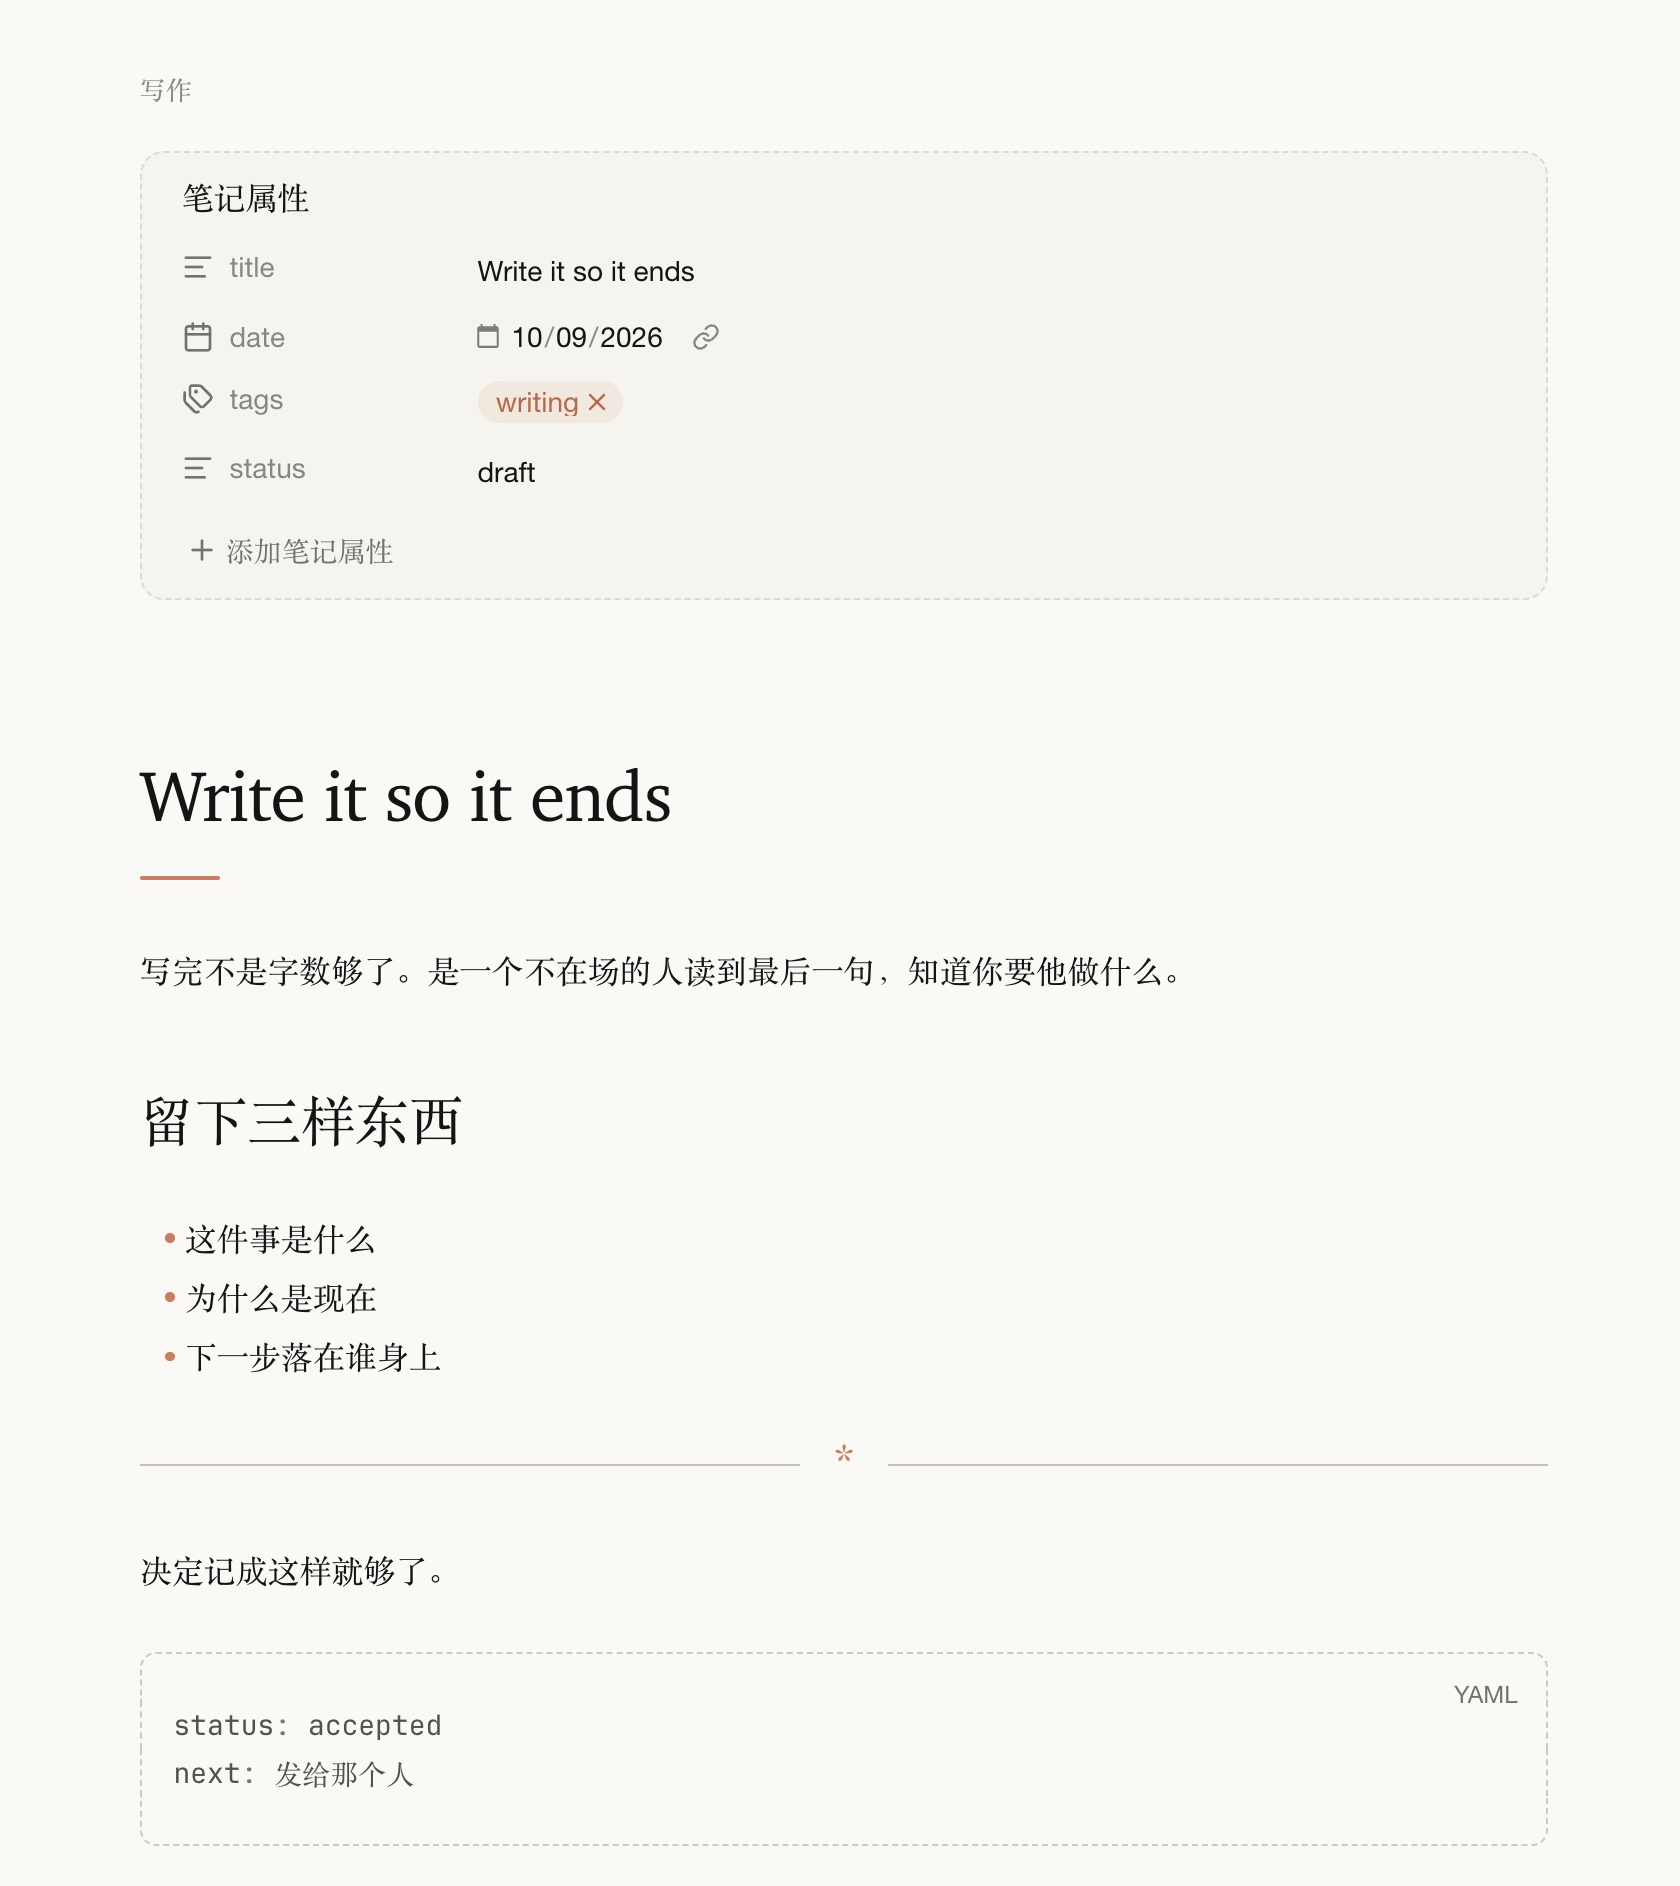
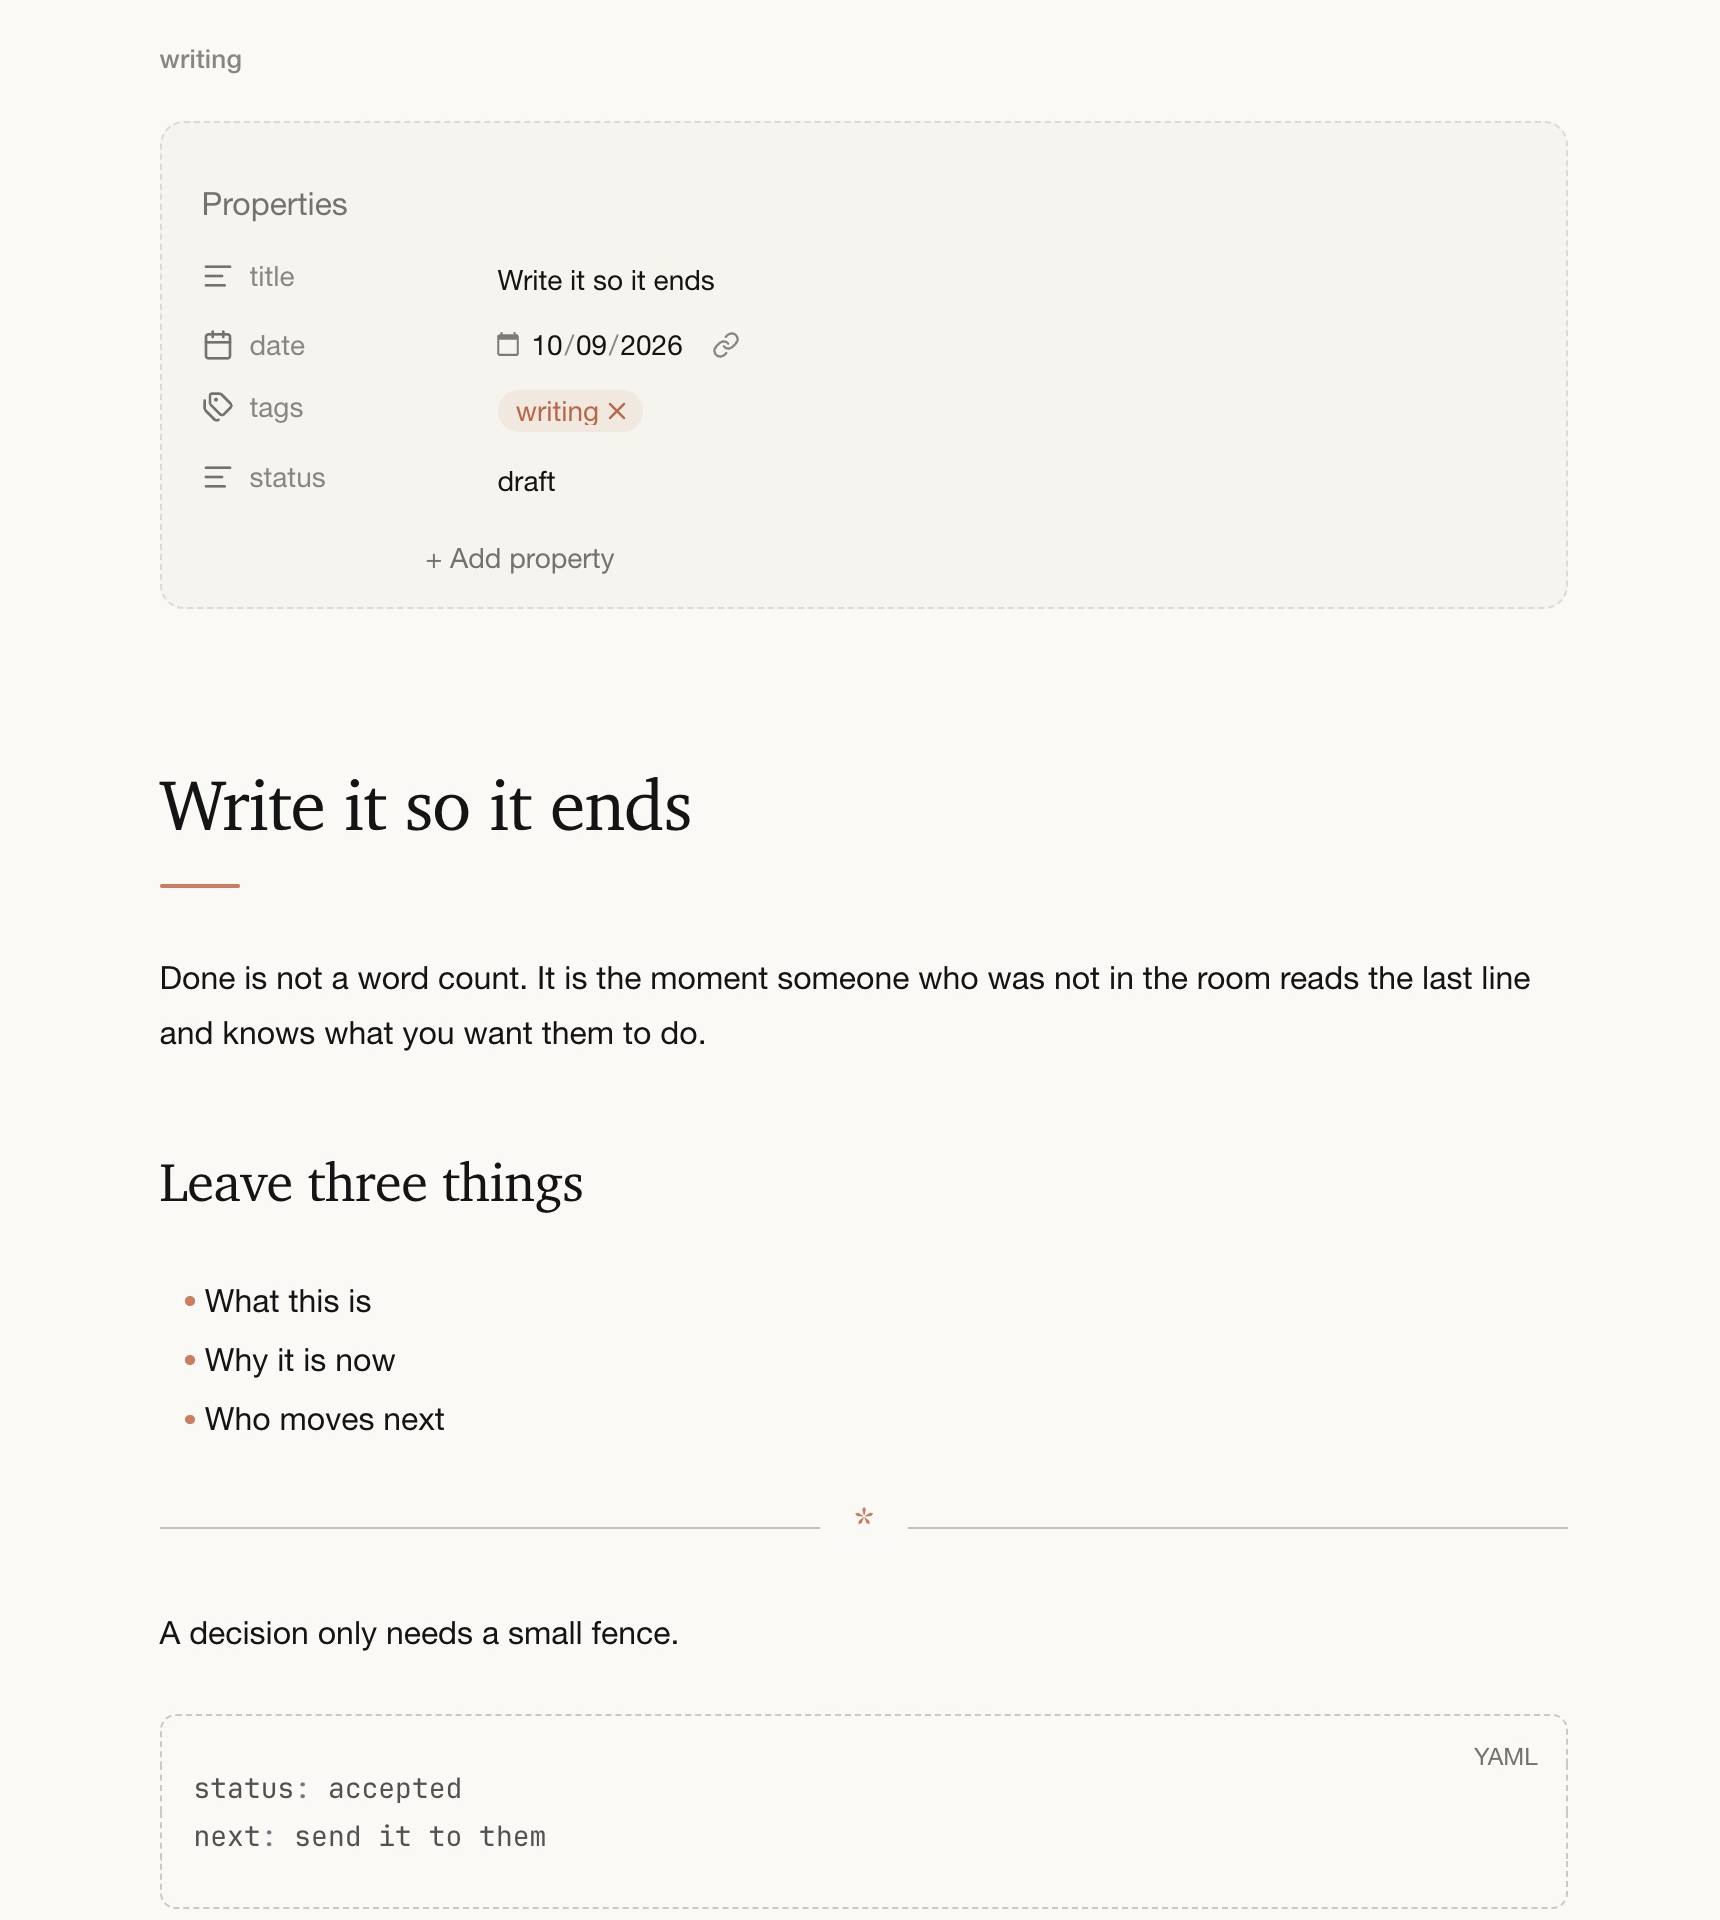
预览和说明改成英文，打开仓库就能看清版式。
正文栏以外的界面没有进图。

diff --git a/README.md b/README.md
@@ -2,21 +2,21 @@
 
 ![Claudette](screenshot.png)
 
-Obsidian 主题。象牙底、居中正文栏、陶土色点缀。风格致敬，不是 Anthropic 官方主题。
+An Obsidian theme. Ivory page, a centered column, a clay accent. A nod to that style, not an official Anthropic theme.
 
-## 安装
+## Install
 
-把这个仓库放到库的 `.obsidian/themes/Claudette`，然后在外观里启用 Claudette。
+Clone this into the vault’s `.obsidian/themes/Claudette`, then enable Claudette under Appearance.
 
 ```bash
 git clone https://github.com/xinnyu/obsidian-claudette.git \
   "<vault>/.obsidian/themes/Claudette"
 ```
 
-## 字体
+## Fonts
 
-仓库里没有字体文件。英文会先找本机已安装的 Anthropic Serif、Anthropic Sans、Anthropic Mono；没有就用 Charter、Helvetica Neue、JetBrains Mono。汉字用 Songti SC。
+This repo does not include font files. English uses Anthropic Serif, Sans, and Mono when they are already installed, and otherwise Charter, Helvetica Neue, and JetBrains Mono. Chinese falls through to Songti SC.
 
-## 许可
+## License
 
-CSS 是 MIT。Anthropic 的字体不在这里，版权归字体权利人。
+The CSS is MIT. The Anthropic fonts are not in this repository.
